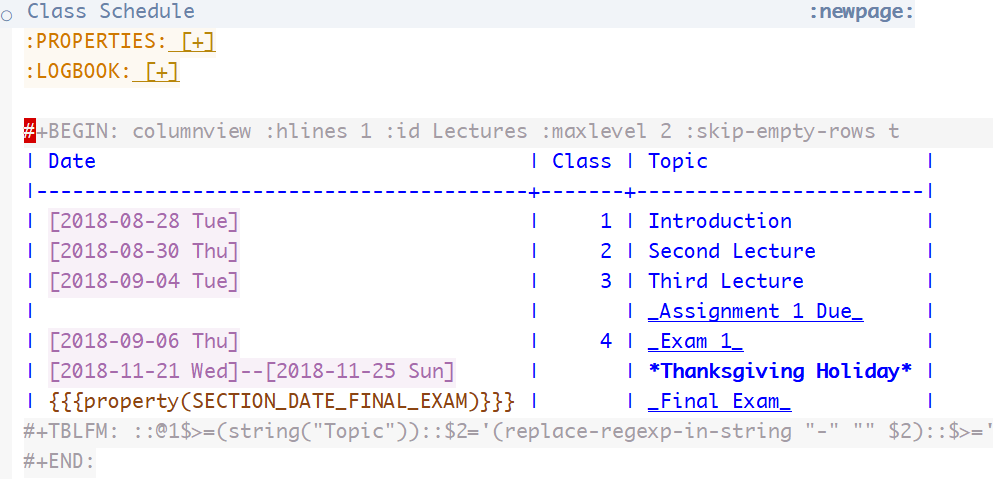
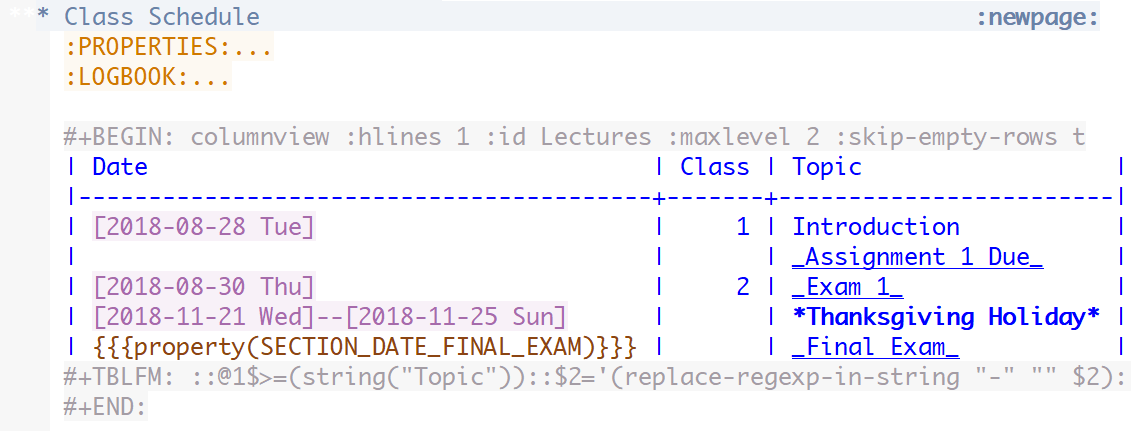
Update

diff --git a/Lectures/01 Introduction.html b/Lectures/01 Introduction.html
@@ -224,11 +224,11 @@ sections and semesters; e.g., course description), the semester Org file (for
 semester-specific information; e.g., academic year or office hours), and
 section-level macros (which contain section-specific information; e.g., class
 time and location).</p>
+<p>Here, we show how to use a simple command to automatically generate/update a
+class schedule from the list of classes and their metadata in the <code class="docutils literal"><span class="pre">*</span> <span class="pre">Lectures</span></code>
+top-level tree in the semester Org file, and how to export your syllabi.</p>
 <p><a class="reference external" href="https://joonro.github.io/Org-Coursepack/Lectures/07%20Semester%20Org%20Files%202%204%20Sections%20and%20Syllabus.html#syllabus-top-level-tree">2 Syllabus Top-level Tree</a> of the documentation contains detailed information about
 how to change syllabus content to fit your own course.</p>
-<p>Here, we show how to use a simple command to automatically generate/update a
-class schedule from the list of classes and their metadata in the <code class="docutils literal"><span class="pre">*</span> <span class="pre">Lectures*</span></code> top-level tree in the semester Org file, and how to export your
-syllabi.</p>
 <div class="section" id="class-schedule">
 <h4>2.6.1 Class schedule<a class="headerlink" href="#class-schedule" title="Permalink to this headline">¶</a></h4>
 <p>You can include in your syllabus a class schedule, which is a table that shows
@@ -236,13 +236,14 @@ a list of class dates, class numbers, and class titles, as well as exam dates
 and assignment due dates. Navigate to the
 <code class="docutils literal"><span class="pre">*</span> <span class="pre">Syllabus/Class</span> <span class="pre">Schedule</span></code> subtree and place your cursor on the line that
 starts with <code class="docutils literal"><span class="pre">#+BEGIN:</span> <span class="pre">columnview</span></code>. You can view the class schedule by
-expanding the <code class="docutils literal"><span class="pre">columnview</span></code> (see example class schedule below).</p>
+expanding the <code class="docutils literal"><span class="pre">columnview</span></code>:</p>
 <img alt="../Assets/Images/Org-Teaching/Quickstart_Syllabus-Schedule-Old.png" src="../Assets/Images/Org-Teaching/Quickstart_Syllabus-Schedule-Old.png" />
-<p>Then, with the curser in place, press <code class="docutils literal"><span class="pre">C-c</span> <span class="pre">C-c</span></code> (hit <code class="docutils literal"><span class="pre">c</span></code> twice while holding
+<p>Then, with the cursor in place, press <code class="docutils literal"><span class="pre">C-c</span> <span class="pre">C-c</span></code> (hit <code class="docutils literal"><span class="pre">c</span></code> twice while holding
 down the <code class="docutils literal"><span class="pre">CTRL</span></code> key) to generate/update the class schedule with the most
 recent information. Any changes made to the order or names of classes will
 automatically be reflected when the instructor updates the class schedule with
-the <code class="docutils literal"><span class="pre">C-c</span> <span class="pre">C-c</span></code> command.</p>
+the <code class="docutils literal"><span class="pre">C-c</span> <span class="pre">C-c</span></code> command. See an example class schedule below.</p>
+<img alt="c:/Users/joon/Assets/Images/Org-Teaching/Quickstart_Syllabus-Schedule-New.png" src="c:/Users/joon/Assets/Images/Org-Teaching/Quickstart_Syllabus-Schedule-New.png" />
 </div>
 <div class="section" id="exporting-a-syllabus">
 <h4>2.6.2 Exporting a syllabus<a class="headerlink" href="#exporting-a-syllabus" title="Permalink to this headline">¶</a></h4>
